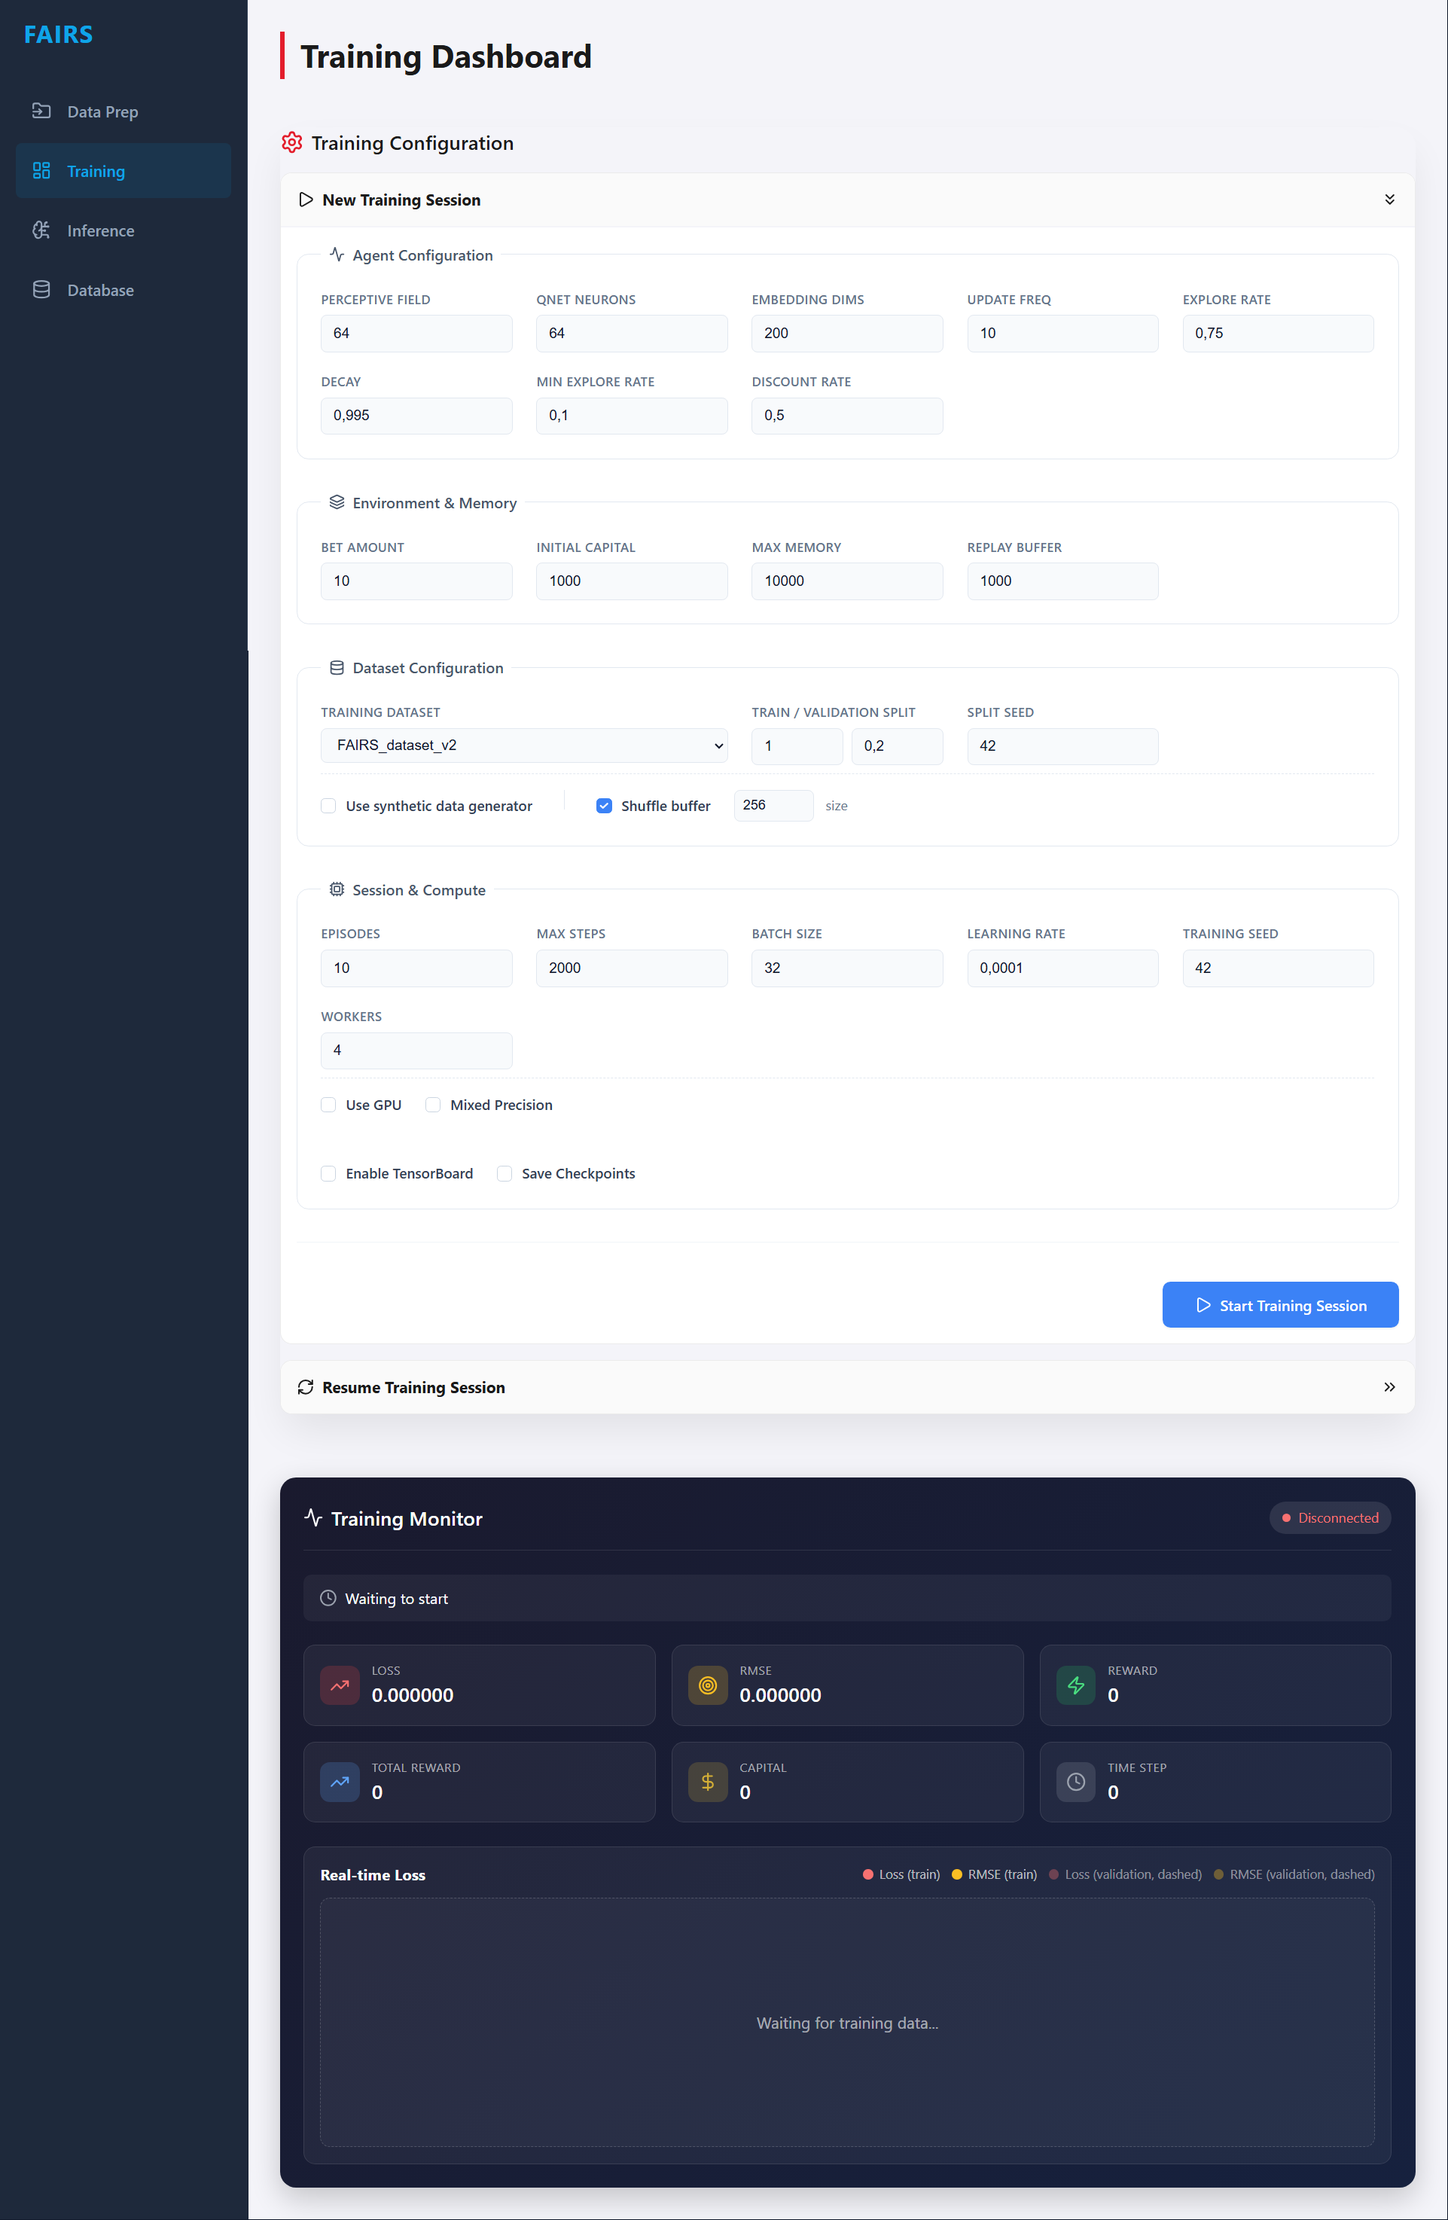
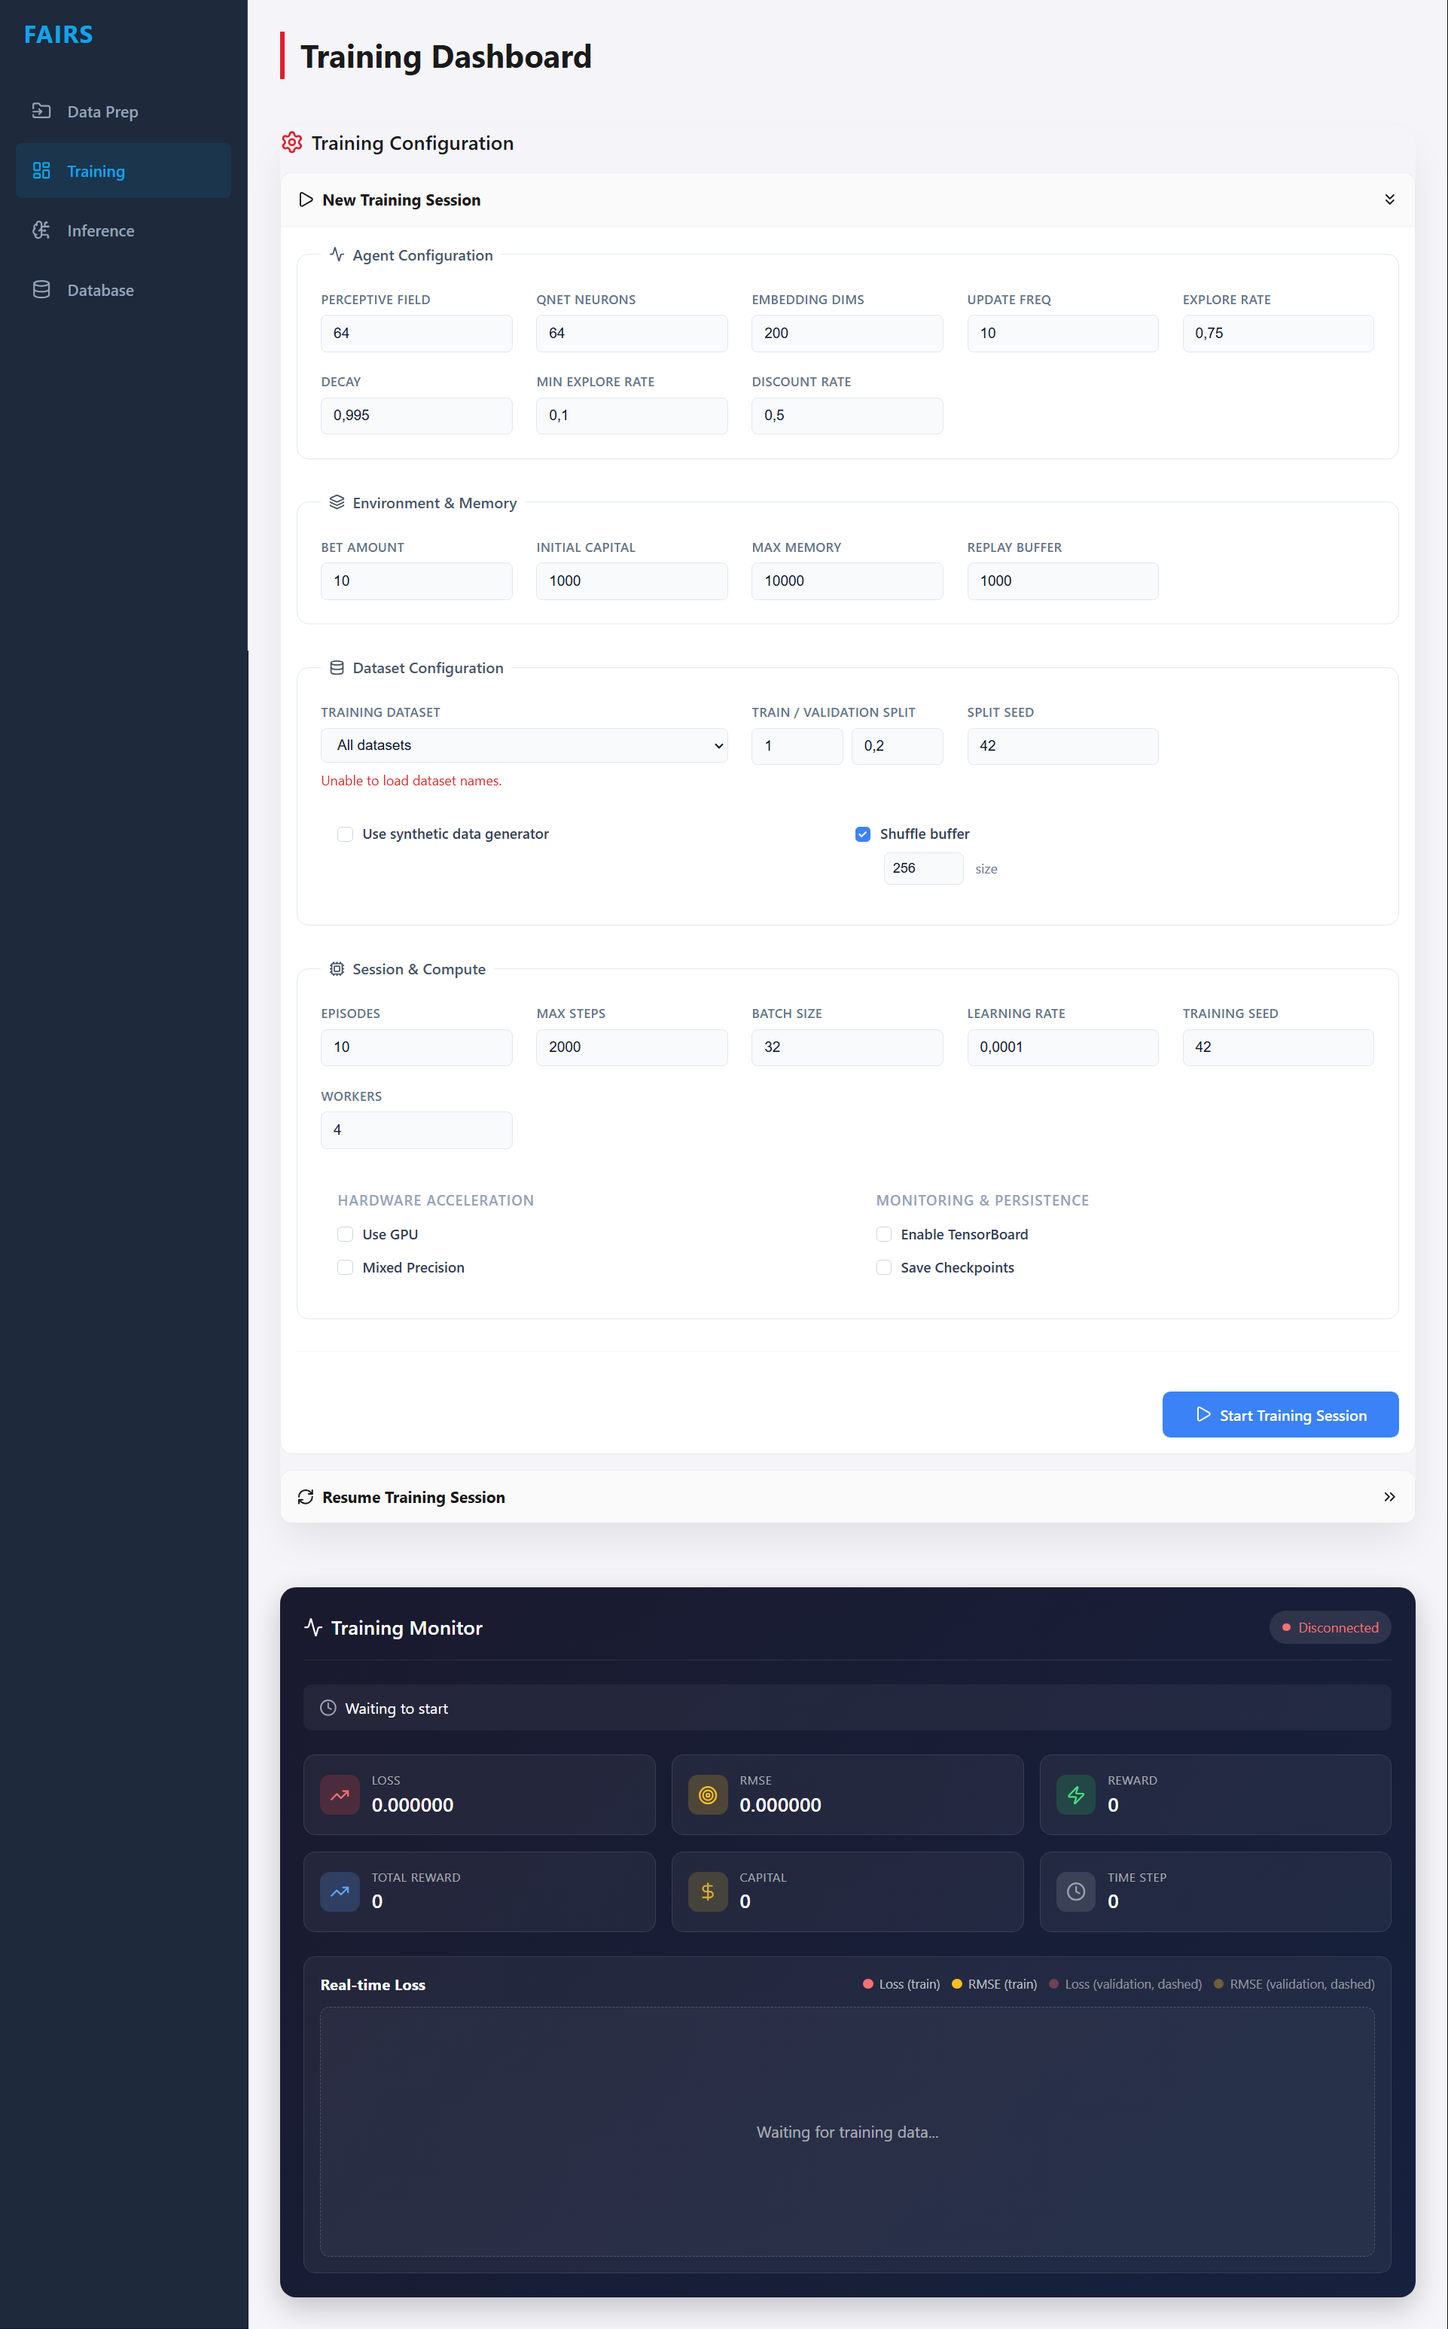
refactored checkboxes settings in training page

diff --git a/FAIRS/client/src/pages/Training/components/TrainingControls.tsx b/FAIRS/client/src/pages/Training/components/TrainingControls.tsx
@@ -338,33 +338,45 @@ export const TrainingControls: React.FC<TrainingControlsProps> = ({
                                         </div>
                                     </div>
 
+
                                     {/* Dataset Toggles */}
-                                    <div className="options-row">
+                                    <div className="dataset-options-grid" style={{
+                                        display: 'grid',
+                                        gridTemplateColumns: '1fr 1fr',
+                                        gap: '1rem',
+                                        marginTop: '1rem',
+                                        padding: '1rem',
+                                        backgroundColor: 'rgba(255, 255, 255, 0.03)',
+                                        borderRadius: '6px',
+                                        border: '1px solid rgba(255, 255, 255, 0.05)'
+                                    }}>
                                         {/* Data Generator Toggle */}
-                                        <label className="checkbox-visual">
-                                            <input type="checkbox" name="useDataGen" checked={newConfig.useDataGen} onChange={handleNewChange} />
-                                            <span>Use synthetic data generator</span>
-                                        </label>
-                                        {newConfig.useDataGen && (
-                                            <div className="inline-input-group">
-                                                <input type="number" name="numGeneratedSamples" value={newConfig.numGeneratedSamples} onChange={handleNewChange} className="form-input inline-input-sm" />
-                                                <span style={{ fontSize: '0.85rem', color: '#64748b' }}>samples</span>
-                                            </div>
-                                        )}
+                                        <div className="dataset-option-group">
+                                            <label className="checkbox-visual" style={{ marginBottom: '0.5rem' }}>
+                                                <input type="checkbox" name="useDataGen" checked={newConfig.useDataGen} onChange={handleNewChange} />
+                                                <span style={{ fontWeight: 500 }}>Use synthetic data generator</span>
+                                            </label>
+                                            {newConfig.useDataGen && (
+                                                <div className="inline-input-group" style={{ marginLeft: '1.8rem' }}>
+                                                    <input type="number" name="numGeneratedSamples" value={newConfig.numGeneratedSamples} onChange={handleNewChange} className="form-input inline-input-sm" />
+                                                    <span style={{ fontSize: '0.85rem', color: '#64748b' }}>samples</span>
+                                                </div>
+                                            )}
+                                        </div>
 
                                         {/* Shuffle Toggle */}
-                                        <div style={{ width: '1px', height: '20px', background: '#e2e8f0', margin: '0 0.5rem' }}></div>
-
-                                        <label className="checkbox-visual">
-                                            <input type="checkbox" name="setShuffle" checked={newConfig.setShuffle} onChange={handleNewChange} />
-                                            <span>Shuffle buffer</span>
-                                        </label>
-                                        {newConfig.setShuffle && (
-                                            <div className="inline-input-group">
-                                                <input type="number" name="shuffleSize" value={newConfig.shuffleSize} onChange={handleNewChange} className="form-input inline-input-sm" />
-                                                <span style={{ fontSize: '0.85rem', color: '#64748b' }}>size</span>
-                                            </div>
-                                        )}
+                                        <div className="dataset-option-group">
+                                            <label className="checkbox-visual" style={{ marginBottom: '0.5rem' }}>
+                                                <input type="checkbox" name="setShuffle" checked={newConfig.setShuffle} onChange={handleNewChange} />
+                                                <span style={{ fontWeight: 500 }}>Shuffle buffer</span>
+                                            </label>
+                                            {newConfig.setShuffle && (
+                                                <div className="inline-input-group" style={{ marginLeft: '1.8rem' }}>
+                                                    <input type="number" name="shuffleSize" value={newConfig.shuffleSize} onChange={handleNewChange} className="form-input inline-input-sm" />
+                                                    <span style={{ fontSize: '0.85rem', color: '#64748b' }}>size</span>
+                                                </div>
+                                            )}
+                                        </div>
                                     </div>
                                 </fieldset>
 
@@ -401,43 +413,87 @@ export const TrainingControls: React.FC<TrainingControlsProps> = ({
                                         </div>
                                     </div>
 
+
                                     {/* Configuration Options */}
-                                    <div className="options-row">
-                                        {/* GPU & Precision */}
-                                        <label className="checkbox-visual">
-                                            <input type="checkbox" name="deviceGPU" checked={newConfig.deviceGPU} onChange={handleNewChange} />
-                                            <span>Use GPU</span>
-                                        </label>
-                                        {newConfig.deviceGPU && (
-                                            <div className="inline-input-group">
-                                                <input type="number" name="deviceID" value={newConfig.deviceID} onChange={handleNewChange} className="form-input inline-input-sm" placeholder="ID" />
+                                    <div className="session-options-container" style={{
+                                        display: 'grid',
+                                        gridTemplateColumns: '1fr 1fr',
+                                        gap: '1.5rem',
+                                        marginTop: '1.5rem'
+                                    }}>
+                                        {/* Hardware Acceleration Column */}
+                                        <div className="session-option-column" style={{
+                                            padding: '1rem',
+                                            backgroundColor: 'rgba(255, 255, 255, 0.03)',
+                                            borderRadius: '6px',
+                                            border: '1px solid rgba(255, 255, 255, 0.05)'
+                                        }}>
+                                            <h4 style={{
+                                                fontSize: '0.9rem',
+                                                fontWeight: 600,
+                                                color: '#94a3b8',
+                                                marginBottom: '0.75rem',
+                                                textTransform: 'uppercase',
+                                                letterSpacing: '0.05em'
+                                            }}>Hardware Acceleration</h4>
+
+                                            <div style={{ display: 'flex', flexDirection: 'column', gap: '0.75rem' }}>
+                                                <div>
+                                                    <label className="checkbox-visual">
+                                                        <input type="checkbox" name="deviceGPU" checked={newConfig.deviceGPU} onChange={handleNewChange} />
+                                                        <span>Use GPU</span>
+                                                    </label>
+                                                    {newConfig.deviceGPU && (
+                                                        <div className="inline-input-group" style={{ marginLeft: '1.8rem', marginTop: '0.5rem' }}>
+                                                            <input type="number" name="deviceID" value={newConfig.deviceID} onChange={handleNewChange} className="form-input inline-input-sm" placeholder="ID" />
+                                                        </div>
+                                                    )}
+                                                </div>
+
+                                                <label className="checkbox-visual">
+                                                    <input type="checkbox" name="useMixedPrecision" checked={newConfig.useMixedPrecision} onChange={handleNewChange} />
+                                                    <span>Mixed Precision</span>
+                                                </label>
                                             </div>
-                                        )}
+                                        </div>
 
-                                        <label className="checkbox-visual">
-                                            <input type="checkbox" name="useMixedPrecision" checked={newConfig.useMixedPrecision} onChange={handleNewChange} />
-                                            <span>Mixed Precision</span>
-                                        </label>
+                                        {/* Monitoring & Persistence Column */}
+                                        <div className="session-option-column" style={{
+                                            padding: '1rem',
+                                            backgroundColor: 'rgba(255, 255, 255, 0.03)',
+                                            borderRadius: '6px',
+                                            border: '1px solid rgba(255, 255, 255, 0.05)'
+                                        }}>
+                                            <h4 style={{
+                                                fontSize: '0.9rem',
+                                                fontWeight: 600,
+                                                color: '#94a3b8',
+                                                marginBottom: '0.75rem',
+                                                textTransform: 'uppercase',
+                                                letterSpacing: '0.05em'
+                                            }}>Monitoring & Persistence</h4>
 
-                                        <div style={{ flexBasis: '100%', height: 0 }}></div> {/* Break Row */}
+                                            <div style={{ display: 'flex', flexDirection: 'column', gap: '0.75rem' }}>
+                                                <label className="checkbox-visual">
+                                                    <input type="checkbox" name="useTensorboard" checked={newConfig.useTensorboard} onChange={handleNewChange} />
+                                                    <span>Enable TensorBoard</span>
+                                                </label>
 
-                                        {/* Checkpointing & Tensorboard */}
-                                        <label className="checkbox-visual">
-                                            <input type="checkbox" name="useTensorboard" checked={newConfig.useTensorboard} onChange={handleNewChange} />
-                                            <span>Enable TensorBoard</span>
-                                        </label>
-
-                                        <label className="checkbox-visual">
-                                            <input type="checkbox" name="saveCheckpoints" checked={newConfig.saveCheckpoints} onChange={handleNewChange} />
-                                            <span>Save Checkpoints</span>
-                                        </label>
-                                        {newConfig.saveCheckpoints && (
-                                            <div className="inline-input-group">
-                                                <span style={{ fontSize: '0.85rem', color: '#64748b' }}>every</span>
-                                                <input type="number" name="checkpointsFreq" value={newConfig.checkpointsFreq} onChange={handleNewChange} className="form-input inline-input-sm" />
-                                                <span style={{ fontSize: '0.85rem', color: '#64748b' }}>episodes</span>
+                                                <div>
+                                                    <label className="checkbox-visual">
+                                                        <input type="checkbox" name="saveCheckpoints" checked={newConfig.saveCheckpoints} onChange={handleNewChange} />
+                                                        <span>Save Checkpoints</span>
+                                                    </label>
+                                                    {newConfig.saveCheckpoints && (
+                                                        <div className="inline-input-group" style={{ marginLeft: '1.8rem', marginTop: '0.5rem' }}>
+                                                            <span style={{ fontSize: '0.85rem', color: '#64748b' }}>every</span>
+                                                            <input type="number" name="checkpointsFreq" value={newConfig.checkpointsFreq} onChange={handleNewChange} className="form-input inline-input-sm" />
+                                                            <span style={{ fontSize: '0.85rem', color: '#64748b' }}>episodes</span>
+                                                        </div>
+                                                    )}
+                                                </div>
                                             </div>
-                                        )}
+                                        </div>
                                     </div>
                                 </fieldset>
 
